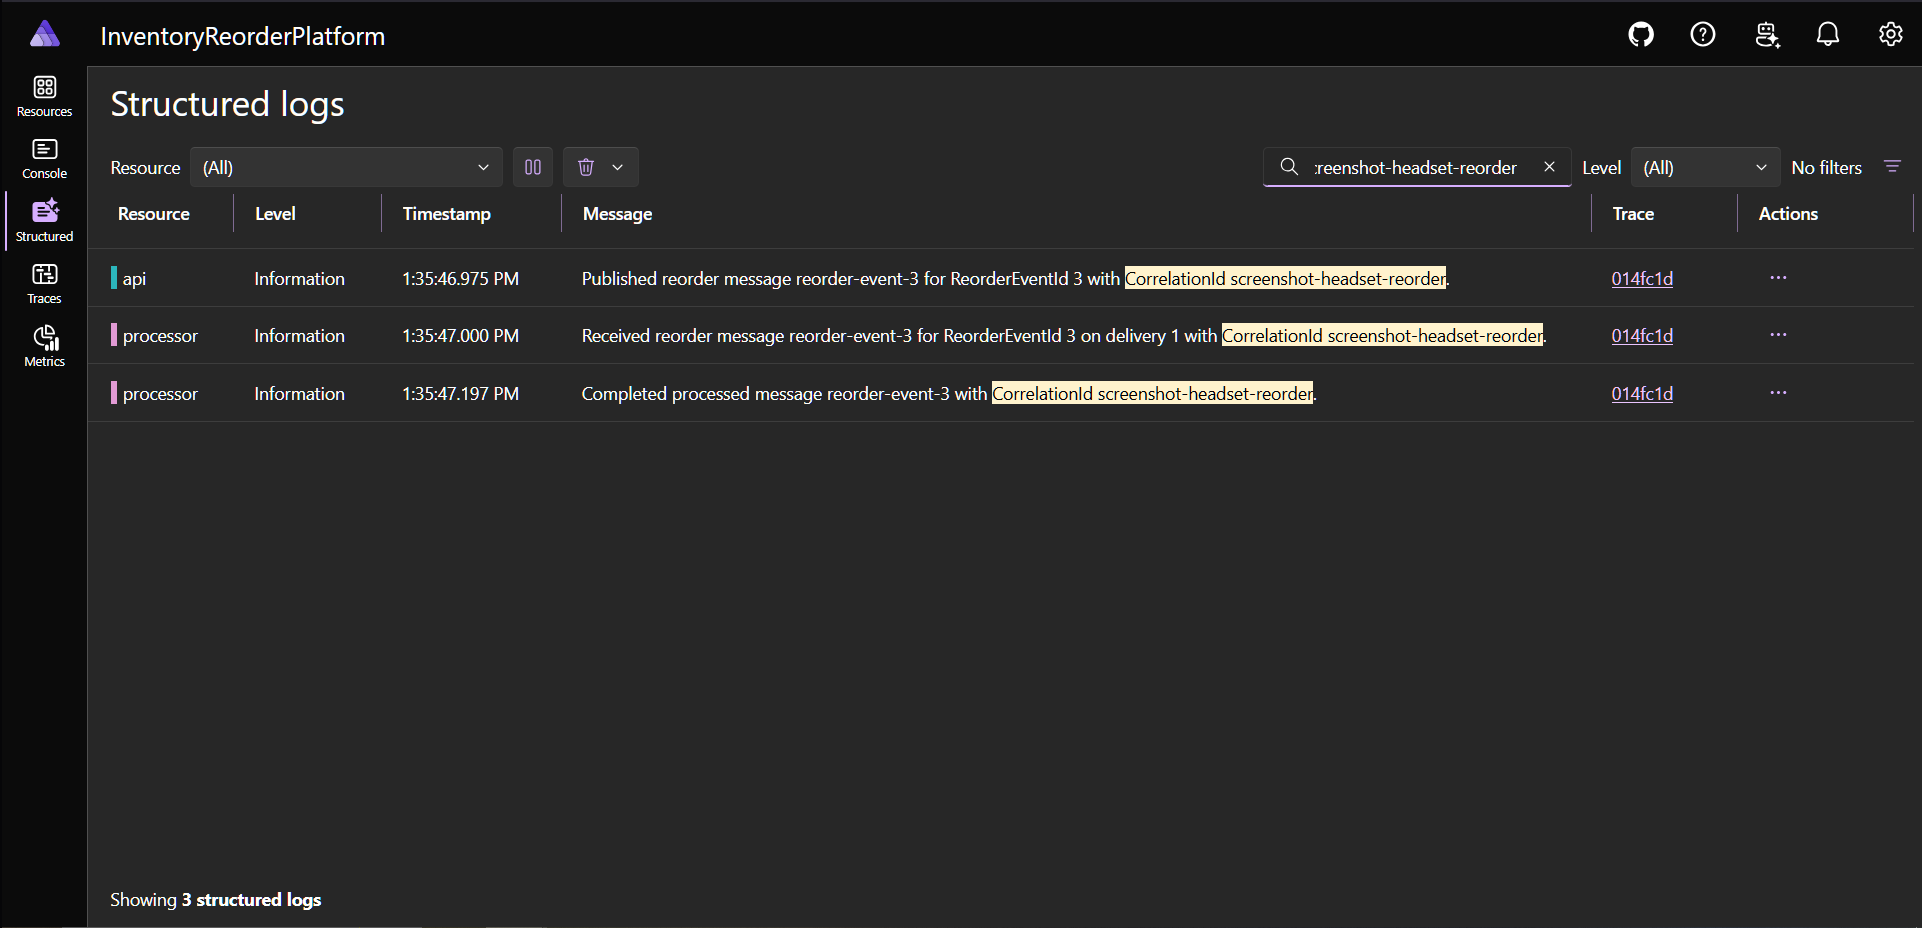
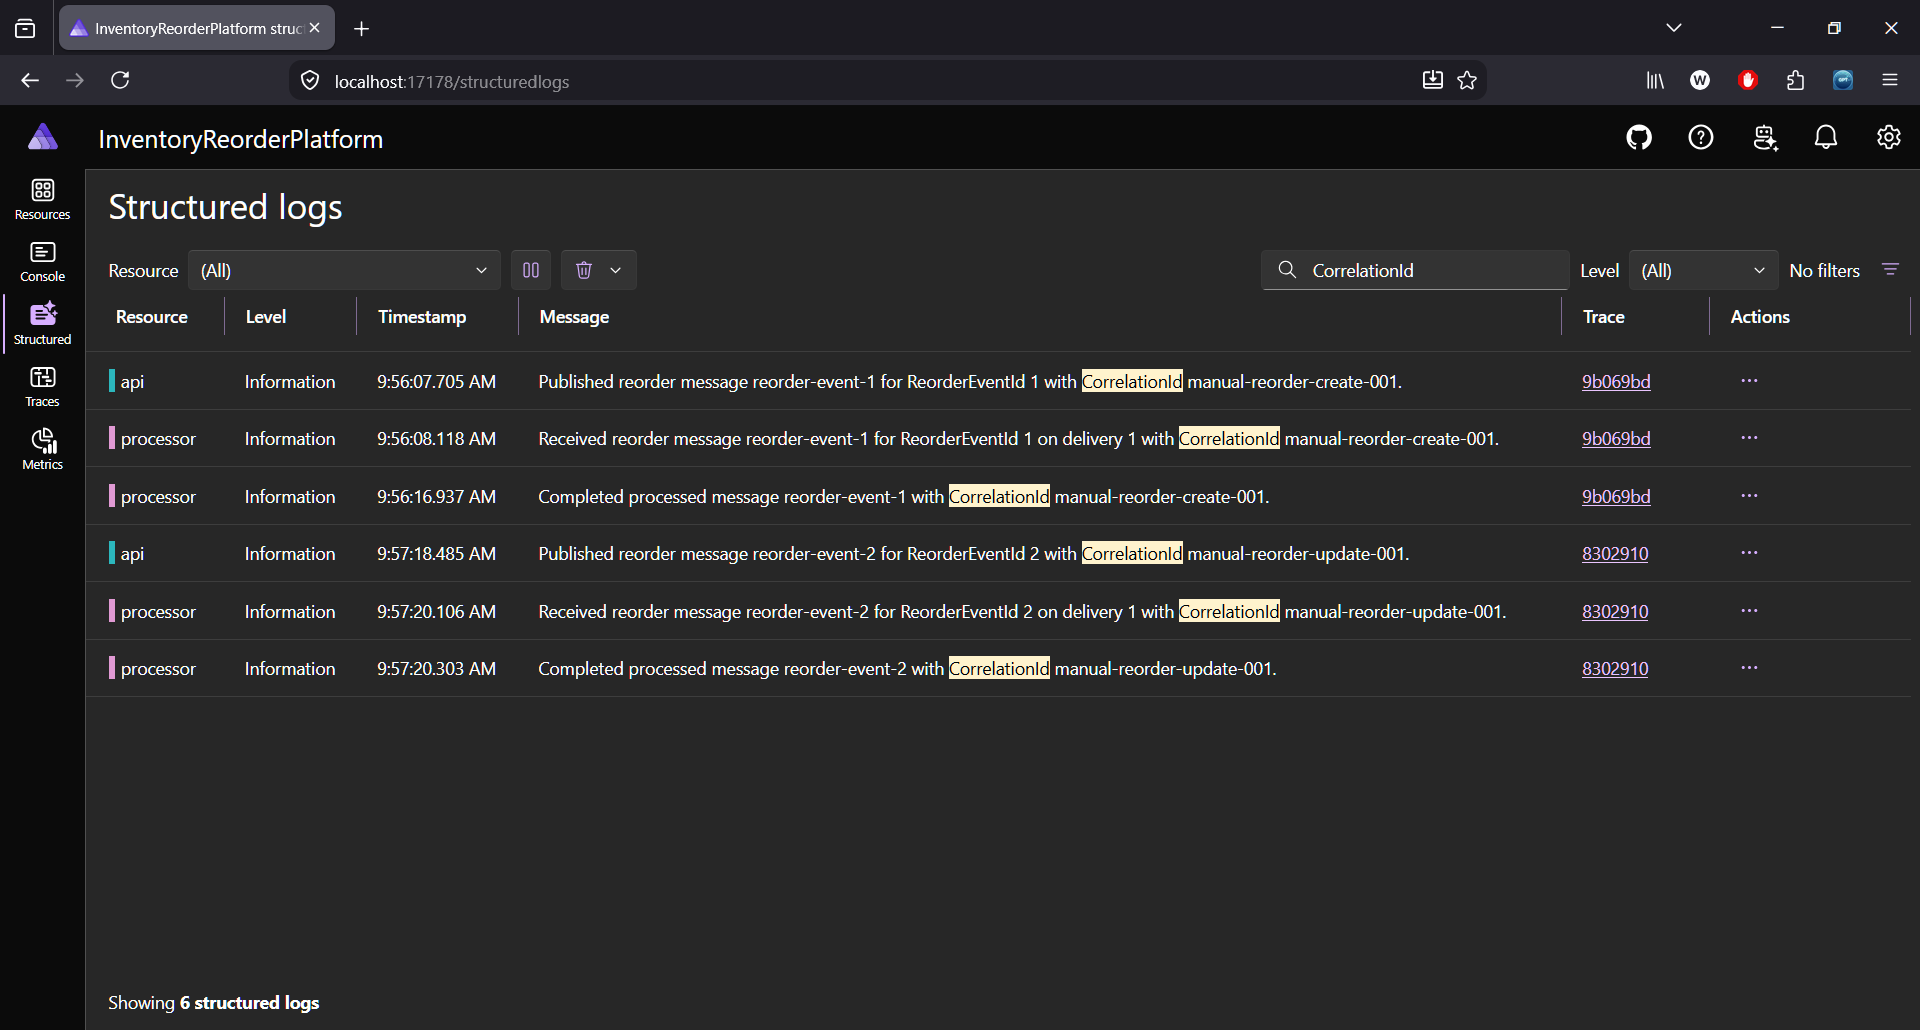
Document reorder quantity workflow

diff --git a/README.md b/README.md
@@ -6,17 +6,35 @@ The project focuses on practical backend and distributed-system concerns while r
 
 ## Screenshots
 
+### JWT Login
+
+![Inventory Operations Dashboard login screen](docs/images/login-screen.png)
+
+The React client authenticates application-managed users through the protected login endpoint and keeps the returned JWT access token only in frontend memory.
+
 ### Operations Dashboard
 
 ![Inventory Operations Dashboard overview](docs/images/operations-dashboard-overview.png)
 
-The React/TypeScript dashboard combines inventory and workflow summary metrics, inventory status, reorder-processing history, and application health in one operator-facing view.
+The authenticated React/TypeScript dashboard combines inventory and workflow summaries, current stock conditions, configured reorder quantities, low-stock filtering, and signed-in user context in one operator-facing view.
+
+### Reorder Quantity Workflow
+
+![Inventory and reorder workflow quantity comparison](docs/images/reorder-workflow-quantities.png)
+
+Inventory items retain a configurable reorder quantity for future workflows, while each reorder event stores an independent requested-quantity snapshot. Later inventory configuration changes do not rewrite the quantity associated with an existing reorder request.
 
 ### Low-Stock Review
 
 ![Inventory dashboard filtered to low-stock items](docs/images/inventory-low-stock-filter.png)
 
-The low-stock filter narrows the inventory table to items requiring attention while retaining workflow and system-health context.
+The low-stock filter narrows the inventory table to items requiring attention while retaining their current quantity, reorder threshold, configured reorder quantity, and workflow context.
+
+### Administrator Account Management
+
+![Administrator account management interface](docs/images/account-management.png)
+
+Authenticated Administrators can create application accounts, review assigned roles and activation status, change roles, and deactivate or reactivate accounts through the role-aware frontend.
 
 ### Correlated Workflow Diagnostics
 
@@ -26,19 +44,35 @@ Filtered Aspire structured logs show the same correlation identifier across API 
 
 ## Project Overview
 
-Inventory items have stock levels and reorder thresholds. When an authenticated Operator or Administrator creates an item below its threshold, or updates an active item into a low-stock state, the API:
+Inventory items have current stock levels, reorder thresholds, and configurable reorder quantities. When an authenticated Operator or Administrator creates an item below its threshold, or updates an active item into a low-stock state, the API:
 
 1. calculates the inventory status
 2. changes the item to `ReorderPending`
-3. creates a `Pending` reorder event
+3. creates a `Pending` reorder event containing the configured reorder quantity as an immutable requested-quantity snapshot
 4. writes an audit record for the successful action
-5. publishes a `ReorderRequestedMessage`
+5. publishes a `ReorderRequestedMessage` containing the same requested quantity
 
 A separate Processor consumes the message, applies duplicate protection, performs the internal reorder-request workflow, records successful processing, and changes the reorder event to `Processed`.
 
 A processed reorder event does **not** mean that replacement stock has arrived. The Processor does not increase `QuantityOnHand`. The inventory item remains `ReorderPending` until a later inventory update raises its quantity above the reorder threshold.
 
 The project intentionally models a focused internal business platform. It does not claim integration with an external enterprise identity provider, a real supplier integration, automated purchasing, or physical inventory fulfillment.
+
+### Inventory Quantity Semantics
+
+The inventory and workflow models intentionally distinguish several related values:
+
+| Value | Meaning |
+| --- | --- |
+| `QuantityOnHand` | Current physical stock recorded for the inventory item |
+| `ReorderThreshold` | Stock level at or below which a reorder workflow is triggered |
+| `ReorderQuantity` | Current configured amount to request when a future reorder workflow begins |
+| `QuantityAtTrigger` | Snapshot of physical stock when a specific reorder event was created |
+| `RequestedQuantity` | Immutable amount requested by that specific reorder event and message |
+
+Changing an inventory item’s `ReorderQuantity` affects later reorder workflows only. It does not alter `RequestedQuantity` on previously created reorder events.
+
+A processed reorder request remains distinct from receiving replacement stock. Stock receipt is represented only by a later inventory update that increases `QuantityOnHand`.
 
 ## What This Project Demonstrates
 
@@ -50,6 +84,8 @@ The project intentionally models a focused internal business platform. It does n
 - background processing with a .NET Worker Service
 - event-driven producer/consumer architecture
 - Entity Framework Core with SQL Server
+- configurable inventory reorder quantities
+- immutable workflow snapshots across API, queue, Processor, and persistence boundaries
 - reliable, idempotent message processing
 - retry and dead-letter behavior
 - SQL-backed audit, processing, and failure records
@@ -70,9 +106,9 @@ The React/TypeScript client provides:
 - in-memory JWT access-token handling
 - signed-in user and role visibility
 - inventory and workflow summary metrics
-- inventory status and quantity visibility
+- current stock, threshold, and configured reorder-quantity visibility
 - low-stock filtering
-- reorder-event processing history
+- reorder-event processing history with trigger and requested-quantity snapshots
 - application and database health information
 - Administrator-only account listing and creation
 - Administrator account role and activation controls
@@ -459,6 +495,20 @@ PATCH  /api/accounts/{id}/status
 
 Inventory creation and update requests require the Operator or Administrator role.
 
+Inventory create and update payloads use the same required business fields:
+
+```json
+{
+  "name": "Mechanical Keyboard",
+  "sku": "KEY-1001",
+  "quantityOnHand": 20,
+  "reorderThreshold": 5,
+  "reorderQuantity": 10
+}
+```
+
+`reorderQuantity` must be greater than zero. When an item transitions into `ReorderPending`, the API copies that configured value into the resulting reorder event and `ReorderRequestedMessage` as `requestedQuantity`.
+
 Audit-record access and all account-management requests require the Administrator role.
 
 The complete authenticated manual-verification sequence is maintained in:
@@ -494,6 +544,10 @@ The automated tests verify:
 - the correlation middleware generates an identifier when one is absent
 - the correlation middleware preserves and returns a caller-supplied identifier
 - isolated API-to-processor workflow behavior is covered by the production-oriented test suite
+- inventory creation and updates validate positive configured reorder quantities
+- reorder events and messages preserve the requested quantity captured when the workflow begins
+- later inventory configuration changes do not rewrite historical requested quantities
+- duplicate and recovered Processor handling preserve the original requested-quantity snapshot
 
 Run the frontend checks with:
 
@@ -510,12 +564,13 @@ Direct Azure Service Bus settlement tests are not currently included because the
 Each document has a focused purpose:
 
 - [Expansion roadmap](docs/inventory-operations-roadmap.md) — completed and remaining expansion scope
+- [System architecture](docs/architecture.md) — components, runtime boundaries, data flow, persistence responsibilities, messaging, authentication, and observability design
 - [Engineering case study](docs/inventory-operations-case-study.md) — design decisions, rationale, tradeoffs, and portfolio value
 - [Failure scenarios](docs/failure-scenarios.md) — expected failure behavior, recovery expectations, evidence, and known limitations
 - [Observability runbook](docs/observability-runbook.md) — operational steps for tracing and diagnosing a workflow
 - [Frontend README](client/README.md) — client-specific startup, proxy configuration, environment settings, and scripts
 
-The operations dashboard, Identity/JWT authentication, authorization and auditing, reliable message processing, observability, and production-oriented test phases are complete. Remaining inventory-configuration, privileged-operation UI, interface-polish, and final API-documentation work is tracked in the roadmap.
+The operations dashboard, Identity/JWT authentication, authorization and auditing, reliable message processing, observability, production-oriented testing, and reorder-quantity configuration phases are complete. Remaining privileged-operation UI, interface-polish, and final API-documentation work is tracked in the roadmap.
 
 ## Scope and Limitations
 
@@ -532,6 +587,7 @@ The operations dashboard, Identity/JWT authentication, authorization and auditin
 - role-aware API operations
 - operator-facing dashboard visibility
 - local health, logs, metrics, and traces
+- configurable reorder quantities and immutable per-event requested-quantity snapshots
 - Aspire and Docker-based development modes
 - Azure-compatible, zero-cost local messaging
 

diff --git a/docs/inventory-operations-case-study.md b/docs/inventory-operations-case-study.md
@@ -22,6 +22,7 @@ A React/TypeScript dashboard provides:
 - signed-in identity and role visibility
 - inventory items and low-stock conditions
 - reorder state and processing history
+- configured reorder quantities and per-event requested-quantity snapshots
 - workflow summaries
 - application and database health
 - Administrator-only application-account management
@@ -57,6 +58,21 @@ The API uses policy-based authorization to enforce three operational roles:
 - `Administrator` can perform operational actions, inspect the audit trail, and manage application accounts.
 
 Role-aware rendering in the React client improves usability, but the API remains the security boundary. Viewer and Operator sessions do not call the Administrator-only accounts endpoint, and direct unauthorized requests are still rejected by backend policy enforcement.
+
+### Reorder Configuration and Workflow Snapshots
+
+Each inventory item now stores a positive configured `ReorderQuantity` in addition to its current stock and reorder threshold.
+
+When the item enters `ReorderPending`, the API copies that configuration into the new reorder event as `RequestedQuantity`. The same value is included in `ReorderRequestedMessage` and carried through background processing.
+
+This creates a deliberate distinction between mutable inventory configuration and historical workflow state:
+
+- changing `ReorderQuantity` affects future reorder requests
+- existing reorder events retain the quantity originally requested
+- duplicate delivery and processing recovery continue using the original snapshot
+- processing the request does not increase physical stock
+
+This design prevents later configuration changes from silently rewriting business history and keeps the event, message, and persisted processing result aligned.
 
 ### Administrator Account Management
 
@@ -148,6 +164,9 @@ The current xUnit v3 tests verify that:
 - failed processing creates a persisted failure record with payload and attempt information
 - correlation middleware generates an identifier when one is absent and preserves a caller-supplied identifier when one is provided
 - an isolated API-to-Processor workflow test exercises the cross-component business path
+- positive reorder-quantity validation
+- requested-quantity propagation across API, message, Processor, and persistence boundaries
+- historical snapshot preservation after later inventory configuration changes
 
 Direct Worker settlement tests are not currently included because the Worker depends on concrete Azure Service Bus transport types. Adding a separate transport abstraction solely for those tests would add more complexity than the current scope requires.
 
@@ -163,7 +182,7 @@ The Aspire-oriented workflow:
 2. creates Viewer and Operator test accounts
 3. logs in as those accounts
 4. reuses named-response access tokens for role-specific requests
-5. verifies authorization, inventory changes, audit records, reorder processing, and health behavior from top to bottom
+5. verifies authorization, configured reorder quantities, immutable workflow snapshots, inventory changes, audit records, reorder processing, and health behavior from top to bottom
 
 Credential values are resolved through ASP.NET Core User Secrets and are not stored in the repository.
 
@@ -201,5 +220,6 @@ This expansion demonstrates practical backend engineering concerns that transfer
 - production-oriented automated testing
 - authenticated frontend visibility for backend systems
 - maintainable and accurately scoped documentation
+- mutable configuration versus immutable workflow-snapshot modeling
 
 The expansion strengthens the project as evidence of practical C#/.NET backend and business-application development while keeping its limitations and claims fully defensible.

diff --git a/docs/architecture.md b/docs/architecture.md
@@ -73,9 +73,9 @@ The React and TypeScript client provides:
 - authenticated login and logout
 - in-memory JWT access-token handling
 - signed-in user and role visibility
-- inventory quantities and status
+- current stock, reorder thresholds, configured reorder quantities, and status
 - low-stock filtering
-- reorder-processing history
+- reorder-processing history with quantity-at-trigger and requested-quantity snapshots
 - application and database health
 - Administrator-only account listing, creation, role changes, deactivation, and reactivation
 
@@ -102,6 +102,8 @@ The API is responsible for:
 - preventing the final active Administrator from being demoted or deactivated
 - validating inventory requests
 - managing inventory and reorder state
+- validating positive configured reorder quantities
+- copying the configured reorder quantity into each new reorder event and message
 - recording successful inventory and account-management actions in the audit trail
 - creating stable reorder messages
 - propagating correlation and trace context
@@ -109,6 +111,8 @@ The API is responsible for:
 JWT access tokens contain the authenticated account identity, assigned roles, and the Identity security stamp. Role and activation changes update the security stamp, causing previously issued tokens for that account to fail validation immediately.
 
 When an item enters a low-stock state, the API saves the business state before publishing the corresponding reorder message.
+
+The API copies the inventory item’s current `ReorderQuantity` into the new reorder event as `RequestedQuantity`. The message is built from that event snapshot rather than reading mutable inventory configuration again.
 
 ### Authentication and Authorization Boundary
 
@@ -127,6 +131,8 @@ Authorization remains enforced by the API. Hiding Administrator controls in the 
 ### Message Queue
 
 The Azure Service Bus-compatible queue separates the inventory request from background reorder processing.
+
+Each `ReorderRequestedMessage` carries the requested quantity captured by the originating reorder event.
 
 The platform assumes at-least-once delivery. Stable message identifiers and a SQL-backed processed-message ledger make duplicate delivery harmless.
 
@@ -152,8 +158,8 @@ A `Processed` reorder event represents successful internal handling of the reord
 SQL Server stores the application’s durable state:
 
 - ASP.NET Core Identity users, roles, claims, and account security data
-- inventory items
-- reorder events
+- inventory items, including current reorder configuration
+- reorder events, including immutable requested-quantity snapshots
 - reorder status history
 - audit records
 - successfully processed message identifiers

diff --git a/docs/inventory-operations-roadmap.md b/docs/inventory-operations-roadmap.md
@@ -101,17 +101,17 @@ The final step of each phase must:
 
 ### Phase 7 — Reorder Quantity and Inventory Configuration
 
-- [ ] add a configured reorder quantity to inventory items
-- [ ] copy the reorder quantity into each reorder event when triggered
-- [ ] include the requested reorder quantity in `ReorderRequestedMessage`
-- [ ] persist the requested quantity independently of later inventory changes
-- [ ] update create and edit request validation
-- [ ] add the required EF Core migration
-- [ ] update API responses and frontend types
-- [ ] display requested reorder quantities in workflow views
-- [ ] extend processor and workflow tests for the new field
-- [ ] clearly distinguish requested reorder quantity from stock received
-- [ ] update all affected documentation and refresh screenshots where the frontend changed
+- [x] add a configured reorder quantity to inventory items
+- [x] copy the reorder quantity into each reorder event when triggered
+- [x] include the requested reorder quantity in `ReorderRequestedMessage`
+- [x] persist the requested quantity independently of later inventory changes
+- [x] update create and edit request validation
+- [x] add the required EF Core migration
+- [x] update API responses and frontend types
+- [x] display requested reorder quantities in workflow views
+- [x] extend processor and workflow tests for the new field
+- [x] clearly distinguish requested reorder quantity from stock received
+- [x] update all affected documentation and refresh screenshots where the frontend changed
 
 ### Phase 8 — Privileged Operations and Administration UI
 

diff --git a/client/README.md b/client/README.md
@@ -2,7 +2,7 @@
 
 React/TypeScript frontend for the Event-Driven Inventory Reorder Platform.
 
-The client provides an authenticated operations dashboard for inventory visibility, low-stock review, reorder-processing history, application health, and Administrator account management. Inventory and workflow business rules remain in the ASP.NET Core API.
+The client provides an authenticated operations dashboard for inventory visibility, low-stock review, configured reorder quantities, reorder-request snapshots, processing history, application health, and Administrator account management. Inventory and workflow business rules remain in the ASP.NET Core API.
 
 ## Features
 
@@ -10,9 +10,9 @@ The client provides an authenticated operations dashboard for inventory visibili
 - JWT bearer authentication through the shared API client
 - signed-in user and role visibility
 - inventory and workflow summary metrics
-- inventory table with backend-derived status badges
+- inventory table with current stock, thresholds, configured reorder quantities, and backend-derived status badges
 - low-stock filtering
-- reorder-event processing history
+- reorder-event processing history with quantity-at-trigger and requested-quantity snapshots
 - application and database health panel
 - manual health refresh
 - Administrator-only account listing
